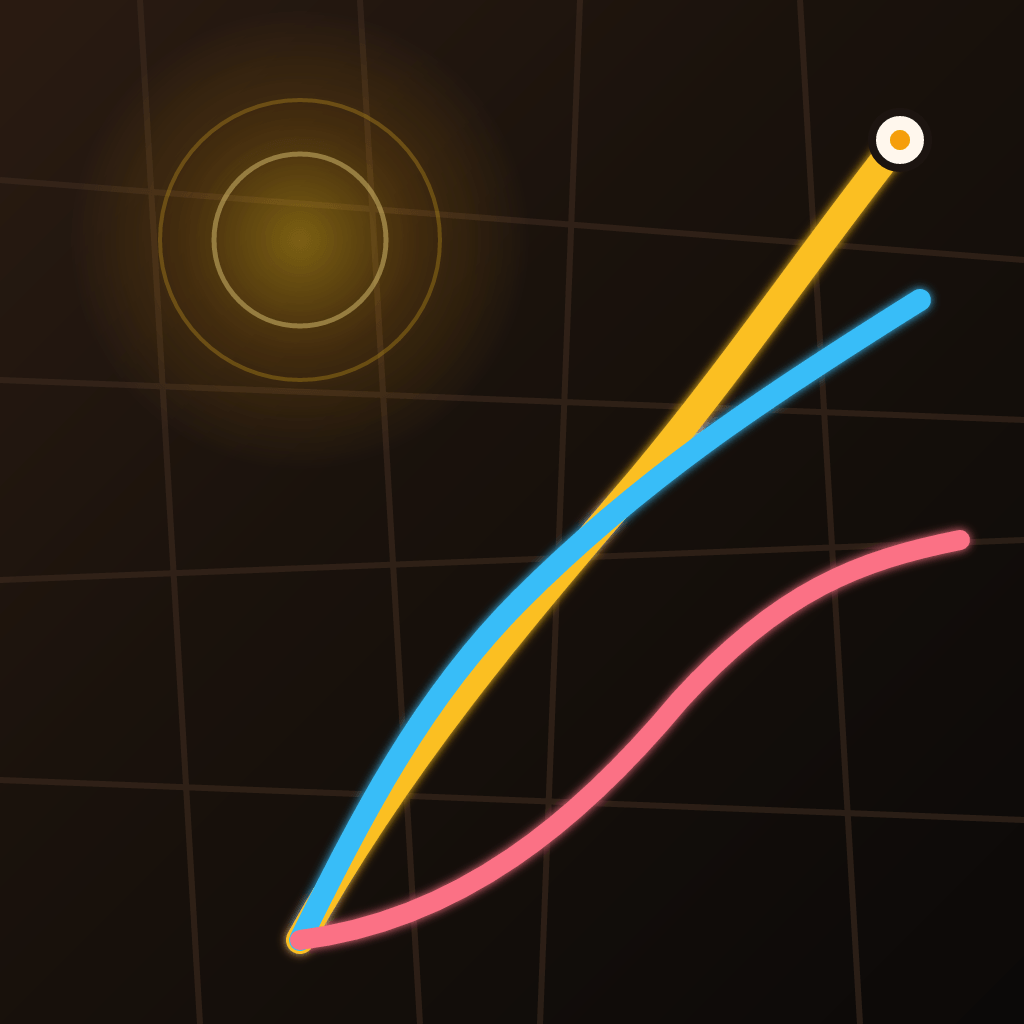
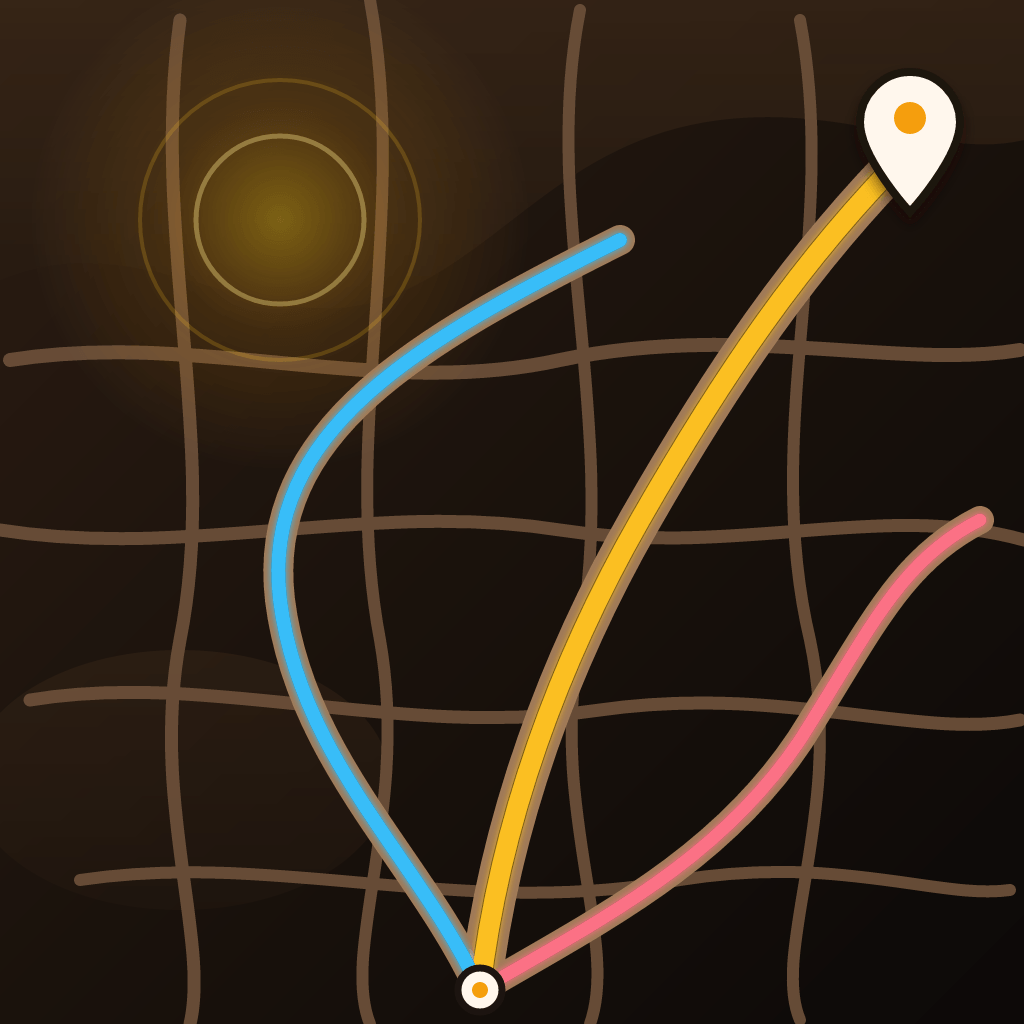
Redraw Plus IAP promo images as navigation maps.
Monthly and yearly now show roads, three routes, a start puck, and a destination pin so they read as Plus navigation instead of abstract lines or the app icon.

Changed region(s): [[0.0, 0.0, 1.0, 1.0], [0.8438, 0.0, 1.0, 0.0312]]

diff --git a/docs/APP_STORE_CHECKLIST.md b/docs/APP_STORE_CHECKLIST.md
@@ -37,7 +37,7 @@ Images live in `web/assets/store/`:
 | `stormpath-plus-promo-monthly.png` | Plus **monthly** subscription (and its win-back offer, if any) |
 | `stormpath-plus-promo-yearly.png` | Plus **yearly** subscription (and its win-back offer, if any) |
 
-They are 1024×1024 RGB PNGs, flattened, no rounded corners. They are **not** the storm-cloud app icon. Monthly and yearly are **different** from each other.
+They are 1024×1024 RGB PNGs, flattened, no rounded corners. They are **not** the storm-cloud app icon. Monthly and yearly are **different** from each other. Each is a driving map (roads, three routes, destination pin) so it reads as Plus navigation, not an icon.
 
 ### Where to upload (App Store Connect)
 
